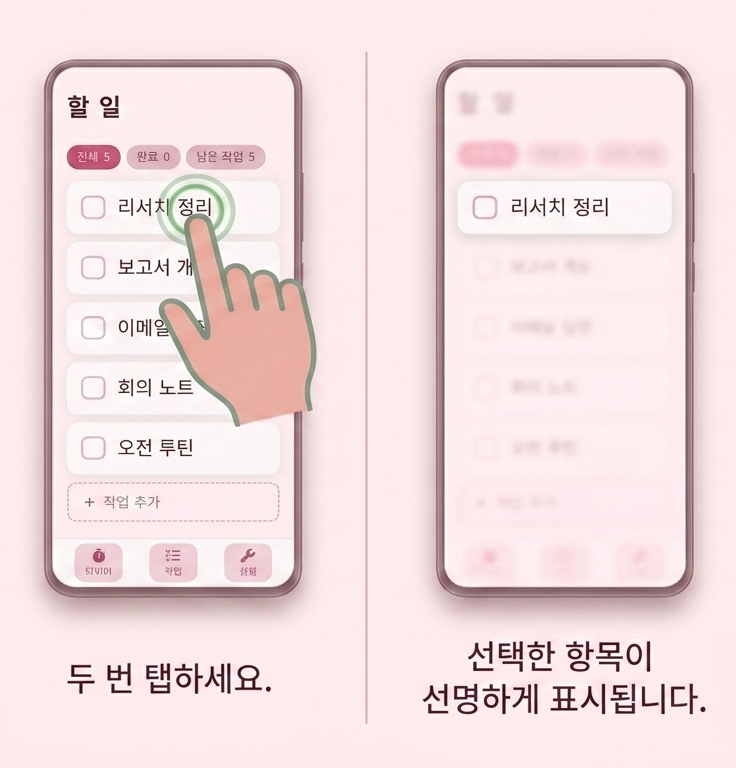
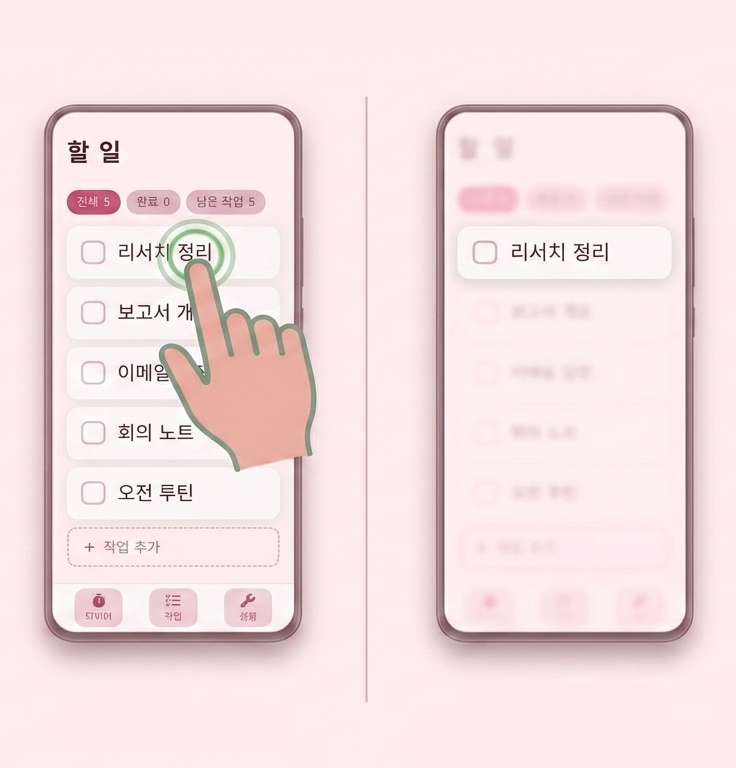
5555

diff --git a/index.html b/index.html
@@ -34,16 +34,16 @@
   }
 
   :root {
-    /* ── 민트 팔레트 (기본값 = THEMES.focus 와 동일) ── */
-    --cream: #D8F0EA;
-    --cream-dark: #A8CFC2;
+    /* ── 파스텔 라벤더 팔레트 ── */
+    --cream: #F0EBF8;
+    --cream-dark: #C5B4DC;
     --navy: #F5F0EB;
-    --navy-soft: #2D6B5E;
-    --navy-muted: #4A8A7C;
+    --navy-soft: #5D4680;
+    --navy-muted: #7B62A0;
 
-    --blue-focus: #3DA694;
-    --blue-light: #6DC0B0;
-    --blue-pale: rgba(109,192,176,0.20);
+    --blue-focus: #9B6FD0;
+    --blue-light: #B48EE0;
+    --blue-pale: rgba(155,111,208,0.15);
 
     --mint: #6DC0B0;
     --mint-light: #8ED4C6;
@@ -53,25 +53,25 @@
     --warm-yellow-light: #FAE08A;
     --warm-yellow-pale: rgba(245,200,66,0.18);
 
-    --text-primary: #1F3D36;
-    --text-secondary: #3B5F55;
-    --text-muted: #6B8A82;
+    --text-primary: #2E1F4A;
+    --text-secondary: #5A4470;
+    --text-muted: #8B72A8;
 
-    --bg: #E8F4F0;
-    --bg-card: #F2FAF7;
-    --btn-secondary: #D0E8DE;
-    --btn-secondary-active: #B8DDD0;
-    --shadow-soft: 0 4px 24px rgba(61,166,148,0.12);
-    --shadow-card: 0 2px 16px rgba(61,166,148,0.10);
+    --bg: #EDE6F8;
+    --bg-card: #F8F4FF;
+    --btn-secondary: #E0D4F5;
+    --btn-secondary-active: #D0BEF0;
+    --shadow-soft: 0 4px 24px rgba(100,70,160,0.12);
+    --shadow-card: 0 2px 16px rgba(100,70,160,0.10);
     --radius-lg: 28px;
     --radius-md: 20px;
     --radius-sm: 14px;
     /* ── WAVE TIMER ── */
-    --wave-bg: #C8E0D5;
-    --wave-bg-ring: rgba(109,192,176,0.40);
-    --wave-fill: #6DC0B0;
-    --wave-fill-2: #3DA694;
-    --wave-focus: #3DA694;
+    --wave-bg: #D8CCF0;
+    --wave-bg-ring: rgba(155,111,208,0.35);
+    --wave-fill: #9B6FD0;
+    --wave-fill-2: #8358C0;
+    --wave-focus: #9B6FD0;
     --wave-rest: #6DC0B0;
     --wave-rest-2: #55AAAA;
     --wave-done: #F5A0C0;
@@ -1220,7 +1220,6 @@
   .modal-input:focus { border-color: var(--blue-focus); }
 
 </style>
-<script src="onboarding.js" defer></script>
 <script src="alarm.js" defer></script>
 <script src="timer.js" defer></script>
 <script src="reading.js" defer></script>
@@ -2156,7 +2155,7 @@ function applyTheme(mode) {
         <button class="main-btn btn-focus" onclick="TaskManager.openEdit()">
           <i class="fa fa-pen"></i>&nbsp; 수정
         </button>
-        <button class="main-btn" style="background:var(--btn-secondary);color:var(--text-primary);" onclick="TaskManager.deleteTask()">
+        <button class="main-btn" style="background:var(--btn-secondary);color:var(--text-primary);margin: 0 0 10px;" onclick="TaskManager.deleteTask()">
           <i class="fa fa-trash"></i>&nbsp; 삭제
         </button>
         <button class="secondary-btn" onclick="TaskManager.closeActionModal()">취소</button>